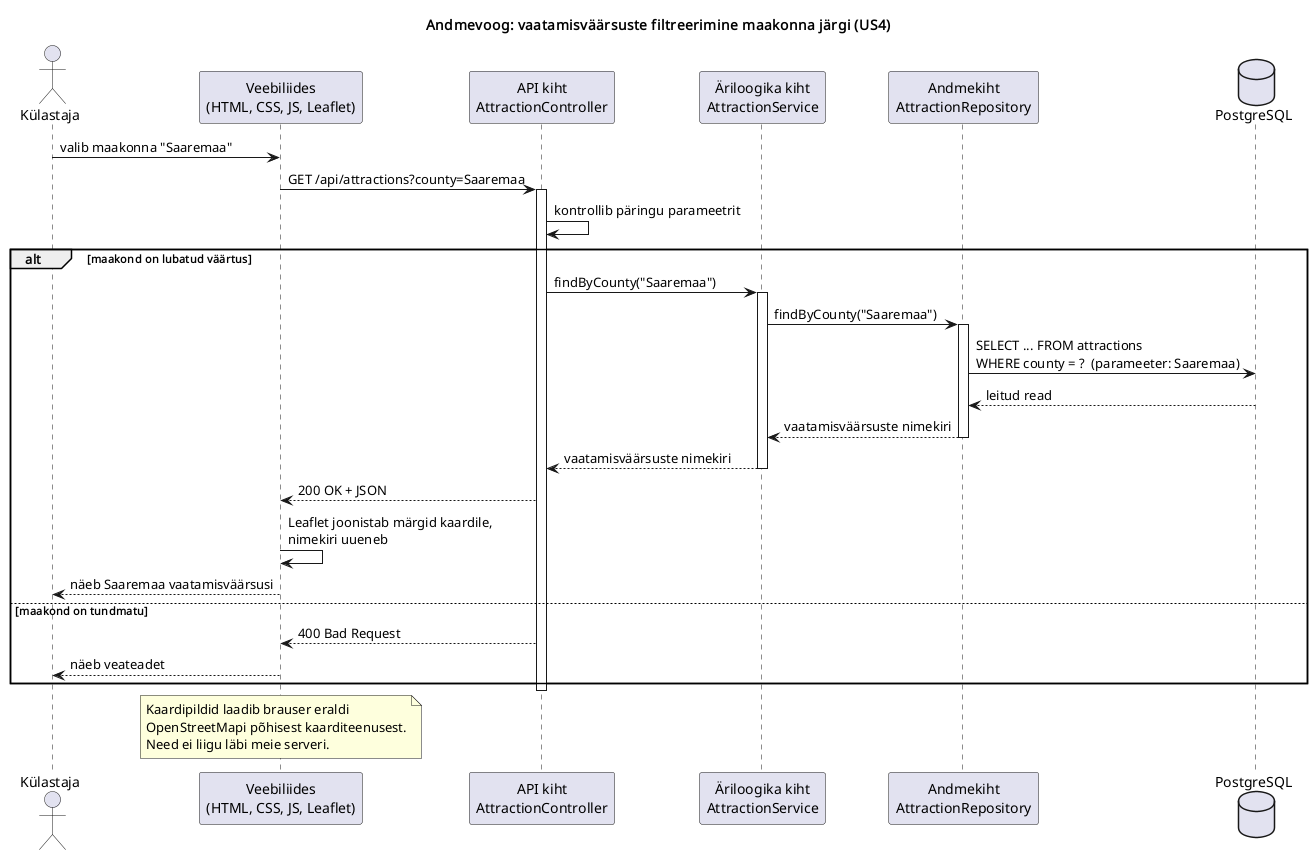
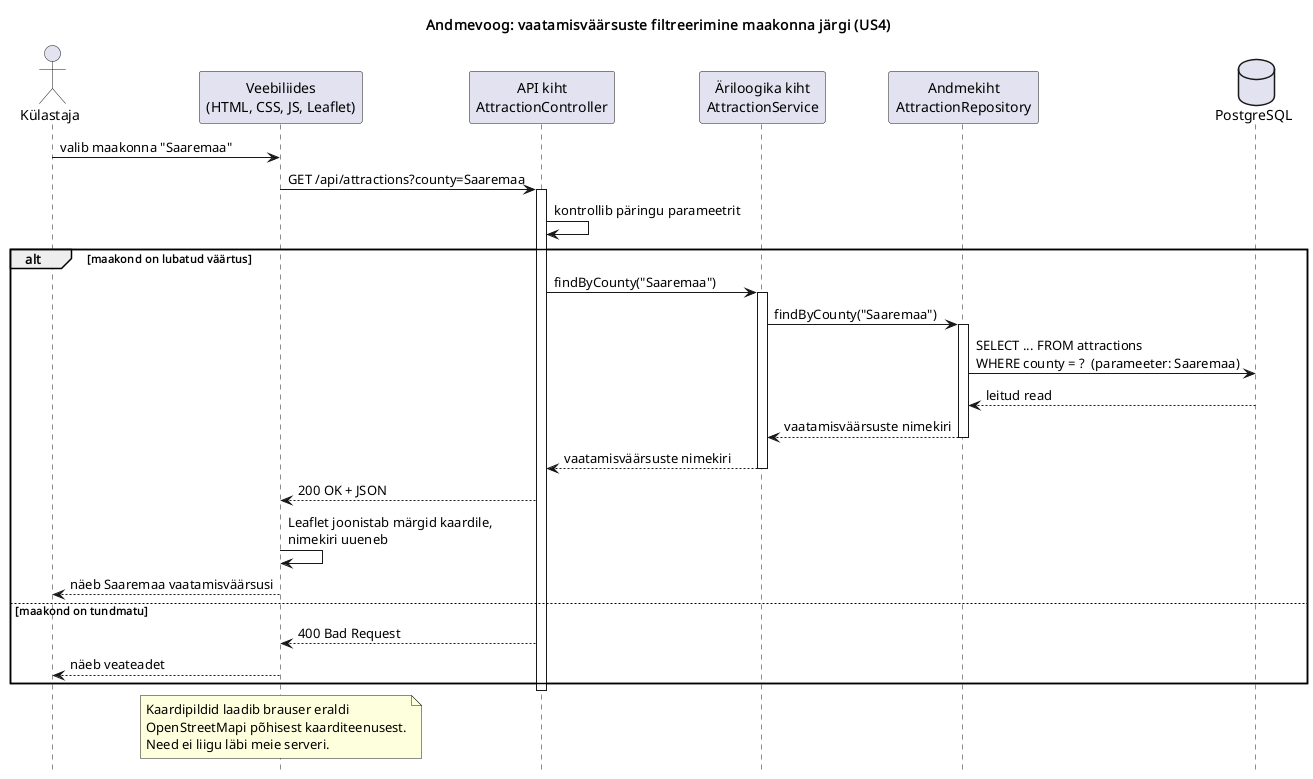
Uuenda README-s arhitektuuri seisu ja eemalda korduvad nimed järjestusskeemist

diff --git a/README.md b/README.md
@@ -20,8 +20,8 @@ See repositoorium sisaldab kooliprojekti, kus kavandan veebirakenduse, mille abi
 | 2. Arendusmetoodika, kasutajalood ja backlog | `docs/02-methodology-backlog.md` | valmis |
 | 2. Tööde haldamise keskkond (GitHub Projects) | link lisatakse siia | tegemata |
 | 3. CASE-vahendite võrdlus ja kasutamise näited | `docs/03-case-tools.md` | tegemata |
-| 4. Tarkvaraarhitektuur | `docs/04-architecture.md` | tegemata |
-| 4. Arhitektuuriskeem (muudetav lähtefail) | `diagrams/` | tegemata |
+| 4. Tarkvaraarhitektuur | `docs/04-architecture.md` | valmis |
+| 4. Arhitektuuriskeem ja andmevoo skeem (muudetavad lähtefailid) | `diagrams/architecture.drawio`, `diagrams/filter-flow.puml` (pildid: `diagrams/architecture.png`, `diagrams/filter-flow.png`) | valmis |
 | 5. Versiooniplaan (SemVer) | `docs/05-versioning.md` | tegemata |
 
 Failide nimed võivad töö käigus veidi muutuda. Tabelit uuendan iga etapi järel.
